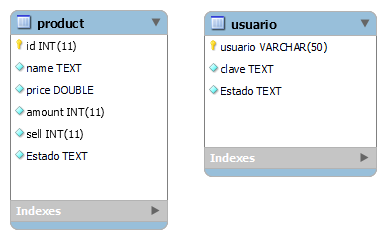
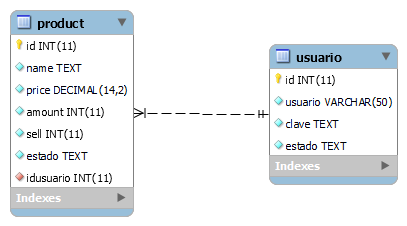
Modelo de BD - Apaz Marcelo y Apaz Melisa

Changed region(s): [[0.3109, 0.031, 0.9948, 0.8363], [0.0, 0.031, 0.4352, 0.9912]]

diff --git a/Frontend/Modelo de Bases de datos/readme.md b/Frontend/Modelo de Bases de datos/readme.md
@@ -4,10 +4,13 @@ Trabajo relacionado con #TK10 Modelado de DB. DER. Modelo Relacional:
 
     La tabla "Product" y la tabla "Usuario"
 
-    Éstas dos tablas no se encuentran relacionadas entre si por el momento.
+    Relaciones: la tabla product apunta a través del campo "IdUsuario" al campo "Id" de la tabla "usuario"
 
     En la tabla "Product" se almacenarán todos los productos de nuetra vinoteca.
     En la tabla "Usuario" se almacenarán todos los usuarios que se podrán loguear al sitio.
 
+    El script de generación de la base de datos es: Script_BD_LeMone.sql
+    El script de consultas de manipulación de datos de la base de datos es: Consultas_BD.sql
+
     Tarea realizada por:
-        Grupo Header: melisapaz (Melisa Apaz), marceloapaz (Marcelo Apaz), Ana Eugenia Abregu (AEugenia89)
+        Grupo Header: melisapaz (Melisa Apaz), marceloapaz (Marcelo Apaz)
